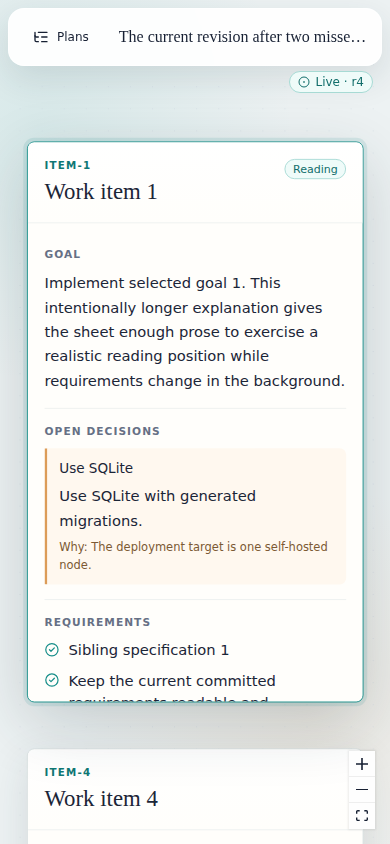
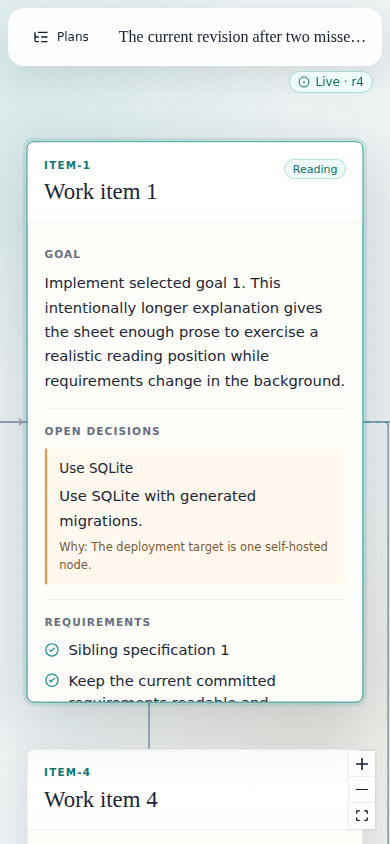
Address substantive review feedback

diff --git a/tests/browser/plan-review.spec.ts b/tests/browser/plan-review.spec.ts
@@ -137,6 +137,7 @@ test.describe.serial("plan review canvas", () => {
       page.getByRole("heading", { name: revisionFour.epicGoal }),
     ).toBeVisible();
     await expect(page.locator(".react-flow__node-sheet")).toHaveCount(11);
+    await expect(page.locator(".react-flow__edge")).toHaveCount(11);
 
     await page.setViewportSize({ width: 390, height: 844 });
     await page.goto("/plans/browser-plan/items/item-1");
@@ -168,6 +169,7 @@ test.describe.serial("plan review canvas", () => {
     let forbiddenNavigationRequests = 0;
     let forbiddenModuleRequests = 0;
     let workerCsp = "";
+    const stableAssetCacheHeaders: string[] = [];
     page.on("request", (request) => {
       const pathname = new URL(request.url()).pathname;
       if (pathname === "/api/plans") {
@@ -181,8 +183,12 @@ test.describe.serial("plan review canvas", () => {
       }
     });
     page.on("response", (response) => {
-      if (new URL(response.url()).pathname.includes("/assets/mockup-worker-")) {
+      const pathname = new URL(response.url()).pathname;
+      if (pathname.includes("/assets/mockup-worker-")) {
         workerCsp = response.headers()["content-security-policy"] ?? "";
+      }
+      if (pathname === "/assets/app.js" || pathname === "/assets/app.css") {
+        stableAssetCacheHeaders.push(response.headers()["cache-control"] ?? "");
       }
     });
     await page.goto("/plans/browser-plan/items/item-1");
@@ -214,6 +220,7 @@ test.describe.serial("plan review canvas", () => {
     const viewport = await page
       .locator(".react-flow__viewport")
       .getAttribute("style");
+    await mockup.getByRole("button", { name: "Fail one interaction" }).click();
     await mockup.getByRole("button", { name: "Reviewed 0 times" }).click();
     await expect(
       mockup.getByRole("button", { name: "Reviewed 1 time" }),
@@ -226,6 +233,11 @@ test.describe.serial("plan review canvas", () => {
     expect(forbiddenNavigationRequests).toBe(0);
     expect(forbiddenModuleRequests).toBe(0);
     expect(workerCsp).toContain("connect-src 'none'");
+    expect(stableAssetCacheHeaders).toHaveLength(2);
+    expect(stableAssetCacheHeaders).toEqual([
+      "no-cache, must-revalidate",
+      "no-cache, must-revalidate",
+    ]);
 
     const currentResponse = await page.request.get("/api/plans/browser-plan");
     const current = (await currentResponse.json()) as {
@@ -345,7 +357,19 @@ test.describe.serial("plan review canvas", () => {
     ).toBeVisible();
     await page.unroute("**/api/plans");
 
+    await page.route("**/api/plans", (route) =>
+      route.fulfill({ status: 503, body: "temporarily unavailable" }),
+    );
+    await page.goto("/");
+    await expect(page.locator(".state-card.error")).toBeVisible();
+    await expect(page.getByText("Loading current plan")).toHaveCount(0);
+    await page.unroute("**/api/plans");
+
     await page.goto("/plans/expired-or-missing");
+    await expect(
+      page.getByRole("heading", { name: "Plan unavailable" }),
+    ).toBeVisible();
+    await page.goto("/plans/%");
     await expect(
       page.getByRole("heading", { name: "Plan unavailable" }),
     ).toBeVisible();

diff --git a/tests/browser-fixture.ts b/tests/browser-fixture.ts
@@ -34,19 +34,24 @@ export function browserAssetUploads(planId: string): UploadAssetRequest[] {
             count += 1;
             document.querySelector('#counter').textContent = 'Reviewed ' + count + ' time';
           };
+          document.querySelector('#thrower').onclick = () => { throw new Error('expected click failure'); };
           try { window.parent.localStorage.getItem('private'); document.body.dataset.storage = 'read'; }
           catch { document.body.dataset.storage = 'blocked'; }
           fetch('/api/plans').then(() => document.body.dataset.network = 'sent').catch(() => document.body.dataset.network = 'blocked');
           try { window.top.location = '/escaped'; } catch {}
           try { window.location.href = '/frame-escaped'; } catch {}
           setTimeout(function () {
-            try { this.indexedDB.open('timer-leak'); document.body.dataset.timerStorage = 'read'; }
+            try { globalThis.indexedDB.open('timer-leak'); document.body.dataset.timerStorage = 'read'; }
             catch { document.body.dataset.timerStorage = 'blocked'; }
-            try { this.fetch('/api/plans'); document.body.dataset.timerNetwork = 'sent'; }
-            catch { document.body.dataset.timerNetwork = 'blocked'; }
+            try {
+              globalThis.fetch('/api/plans')
+                .then(() => document.body.dataset.timerNetwork = 'sent')
+                .catch(() => document.body.dataset.timerNetwork = 'blocked');
+            } catch { document.body.dataset.timerNetwork = 'blocked'; }
           }, 0);
           setTimeout(() => document.querySelector('#security').textContent = 'Isolation active', 50);
         </script>
+        <button id="thrower">Fail one interaction</button>
         <script>
           const imports = ["/api/plans", "https://tracker.example/module.js"];
           Promise.all(imports.map((specifier) => {

diff --git a/src/domain/assets.ts b/src/domain/assets.ts
@@ -1,6 +1,7 @@
 import { createHash } from "node:crypto";
 
 import { parse } from "acorn";
+import { parseFragment } from "parse5";
 
 import { PlanError } from "../contract/errors.js";
 import type { AssetDescriptor, UploadAssetRequest } from "../contract/plan.js";
@@ -146,15 +147,42 @@ function requireWithinLimit(
 
 function validateSelfContained(mediaType: string, content: Buffer): void {
   if (mediaType !== "text/html" && mediaType !== "image/svg+xml") return;
+  const originalText = content.toString("utf8");
+  requireClosedScripts(originalText);
   const text = content
     .toString("utf8")
     .replace(/(<script\b[^>]*>)[\s\S]*?(<\/script\s*>)/gi, "$1$2");
-  validateInlineScripts(content.toString("utf8"));
+  validateInlineScripts(originalText);
   if (hasExternalMarkupDependency(text)) {
     throw new PlanError(
       "ASSET_INVALID",
       "HTML and SVG uploads must be self-contained; an external or relative dependency was found",
     );
+  }
+}
+
+interface MarkupNode {
+  readonly nodeName: string;
+  readonly childNodes?: ReadonlyArray<MarkupNode>;
+  readonly sourceCodeLocation?: { readonly endTag?: unknown } | null;
+}
+
+function requireClosedScripts(text: string): void {
+  const document = parseFragment(text, { sourceCodeLocationInfo: true });
+  const pending = [...document.childNodes] as MarkupNode[];
+  while (pending.length > 0) {
+    const node = pending.pop();
+    if (node === undefined) continue;
+    if (
+      node.nodeName === "script" &&
+      node.sourceCodeLocation?.endTag === undefined
+    ) {
+      throw new PlanError(
+        "ASSET_INVALID",
+        "HTML and SVG script elements must have a closing tag",
+      );
+    }
+    if (node.childNodes !== undefined) pending.push(...node.childNodes);
   }
 }
 

diff --git a/src/web/app.tsx b/src/web/app.tsx
@@ -107,7 +107,7 @@ function PlanList({
         <p>Open a plan to read its current committed revision.</p>
       </header>
       {error !== undefined ? <p className="state-card error">{error}</p> : null}
-      {plans === undefined ? (
+      {error !== undefined ? null : plans === undefined ? (
         <LoadingState />
       ) : plans.length === 0 ? (
         <section className="state-card empty-state">
@@ -199,13 +199,17 @@ function readRoute(): { readonly planId?: string; readonly itemId?: string } {
     /^\/plans\/([^/]+)(?:\/items\/([^/]+))?$/,
   );
   return {
-    ...(match?.[1] === undefined
-      ? {}
-      : { planId: decodeURIComponent(match[1]) }),
-    ...(match?.[2] === undefined
-      ? {}
-      : { itemId: decodeURIComponent(match[2]) }),
+    ...(match?.[1] === undefined ? {} : { planId: decodeSegment(match[1]) }),
+    ...(match?.[2] === undefined ? {} : { itemId: decodeSegment(match[2]) }),
   };
+}
+
+function decodeSegment(value: string): string {
+  try {
+    return decodeURIComponent(value);
+  } catch {
+    return value;
+  }
 }
 
 function errorMessage(value: unknown): string {

diff --git a/tests/browser-server.ts b/tests/browser-server.ts
@@ -1,16 +1,17 @@
 import { browserAssetUploads, makeBrowserPlan } from "./browser-fixture.js";
 import { startTestServer } from "./test-service.js";
 
-const running = await startTestServer(undefined, 4173);
-const assets = await Promise.all(
-  browserAssetUploads("browser-plan").map((request) =>
-    running.service.uploadAsset("owner-a", request),
-  ),
-);
-await running.service.write("owner-a", {
-  operationId: "browser-create",
-  expectedVersion: null,
-  plan: makeBrowserPlan(assets),
+const running = await startTestServer(undefined, 4173, async (service) => {
+  const assets = await Promise.all(
+    browserAssetUploads("browser-plan").map((request) =>
+      service.uploadAsset("owner-a", request),
+    ),
+  );
+  await service.write("owner-a", {
+    operationId: "browser-create",
+    expectedVersion: null,
+    plan: makeBrowserPlan(assets),
+  });
 });
 
 console.log(`browser test server listening at ${running.url}`);

diff --git a/src/web/plan-sheet.tsx b/src/web/plan-sheet.tsx
@@ -141,11 +141,7 @@ function ItemSheet({
             changed={changedSections.has(`${item.id}:visuals`)}
           >
             {assets.map((asset) => (
-              <AssetView
-                key={asset.digest}
-                planId={plan.planId}
-                asset={asset}
-              />
+              <AssetView key={asset.id} planId={plan.planId} asset={asset} />
             ))}
           </SheetSection>
         )}
@@ -243,8 +239,8 @@ function SheetSection({
 function Checklist({ values }: { readonly values: ReadonlyArray<string> }) {
   return (
     <ul className="checklist">
-      {values.map((value) => (
-        <li key={value}>
+      {values.map((value, index) => (
+        <li key={`${index}:${value}`}>
           <CheckCircle2 aria-hidden="true" size={16} />
           <span>{value}</span>
         </li>

diff --git a/tests/test-service.ts b/tests/test-service.ts
@@ -64,7 +64,11 @@ export async function createTestStore(filename?: string): Promise<PlanStore> {
   return store;
 }
 
-export async function startTestServer(filename?: string, port = 0) {
+export async function startTestServer(
+  filename?: string,
+  port = 0,
+  initialize?: (service: PlanService) => Promise<void>,
+) {
   const store = await createTestStore(filename);
   const expiredTokens = new Set(["expired"]);
   const verifier = new TestAccessVerifier(
@@ -86,6 +90,7 @@ export async function startTestServer(filename?: string, port = 0) {
       browserAuthenticator: new Authenticator(verifier, store, "browser"),
     },
   );
+  if (initialize !== undefined) await initialize(service);
   await new Promise<void>((resolveListen) =>
     server.listen(port, "127.0.0.1", resolveListen),
   );

diff --git a/src/web/plan-canvas.tsx b/src/web/plan-canvas.tsx
@@ -2,7 +2,9 @@ import { useEffect, useMemo, useRef } from "react";
 import {
   Background,
   Controls,
+  Handle,
   MarkerType,
+  Position,
   ReactFlow,
   ReactFlowProvider,
   type Edge,
@@ -93,7 +95,23 @@ function CanvasContents({
 }
 
 function SheetNodeView({ data }: NodeProps<SheetNode>) {
-  return <PlanSheet {...data} />;
+  return (
+    <>
+      <Handle
+        type="target"
+        position={Position.Left}
+        isConnectable={false}
+        style={{ opacity: 0, pointerEvents: "none" }}
+      />
+      <PlanSheet {...data} />
+      <Handle
+        type="source"
+        position={Position.Right}
+        isConnectable={false}
+        style={{ opacity: 0, pointerEvents: "none" }}
+      />
+    </>
+  );
 }
 
 function makeNodes(

diff --git a/vite.client.config.ts b/vite.client.config.ts
@@ -1,8 +1,12 @@
 import tailwindcss from "@tailwindcss/vite";
 import { defineConfig } from "vite-plus";
+import { fileURLToPath, URL } from "node:url";
 
 export default defineConfig({
   plugins: [tailwindcss()],
+  resolve: {
+    alias: { "@": fileURLToPath(new URL("./src", import.meta.url)) },
+  },
   worker: { format: "es" },
   build: {
     outDir: "dist/client",
@@ -11,7 +15,10 @@ export default defineConfig({
       input: "src/web/client.tsx",
       output: {
         entryFileNames: "assets/app.js",
-        assetFileNames: "assets/app.[ext]",
+        assetFileNames: (asset) =>
+          asset.names.some((name) => name.endsWith(".css"))
+            ? "assets/app.css"
+            : "assets/[name]-[hash][extname]",
       },
     },
   },

diff --git a/src/web/interactive-document.tsx b/src/web/interactive-document.tsx
@@ -57,8 +57,9 @@ export function InteractiveDocument({
         if (target?.nodeType !== 1) return;
         const interactive = target.closest("[id], a");
         if (interactive?.tagName.toLowerCase() === "a") event.preventDefault();
-        if (interactive?.id !== "") {
-          worker?.postMessage({ type: "click", id: interactive?.id });
+        const id = interactive?.id;
+        if (id !== undefined && id !== "") {
+          worker?.postMessage({ type: "click", id });
         }
       });
       frameDocument.addEventListener("submit", (event) =>

diff --git a/src/web/http-router.ts b/src/web/http-router.ts
@@ -176,7 +176,9 @@ async function serveClientAsset(
     response.writeHead(200, {
       "content-type": clientAssetMediaType(filename),
       "content-length": content.byteLength,
-      "cache-control": "public, max-age=3600",
+      "cache-control": filename.startsWith("mockup-worker-")
+        ? "public, max-age=31536000, immutable"
+        : "no-cache, must-revalidate",
       ...(filename.startsWith("mockup-worker-")
         ? {
             "content-security-policy":

diff --git a/src/web/mockup-worker.ts b/src/web/mockup-worker.ts
@@ -33,7 +33,11 @@ globalThis.onmessage = (event: MessageEvent<IncomingMessage>) => {
   }
   const handler = handlers.get(event.data.id);
   if (handler !== undefined) {
-    handler.call(element(event.data.id), { preventDefault: () => undefined });
+    try {
+      handler.call(element(event.data.id), { preventDefault: () => undefined });
+    } catch {
+      // A failing uploaded handler stops only this interaction.
+    }
   }
 };
 
